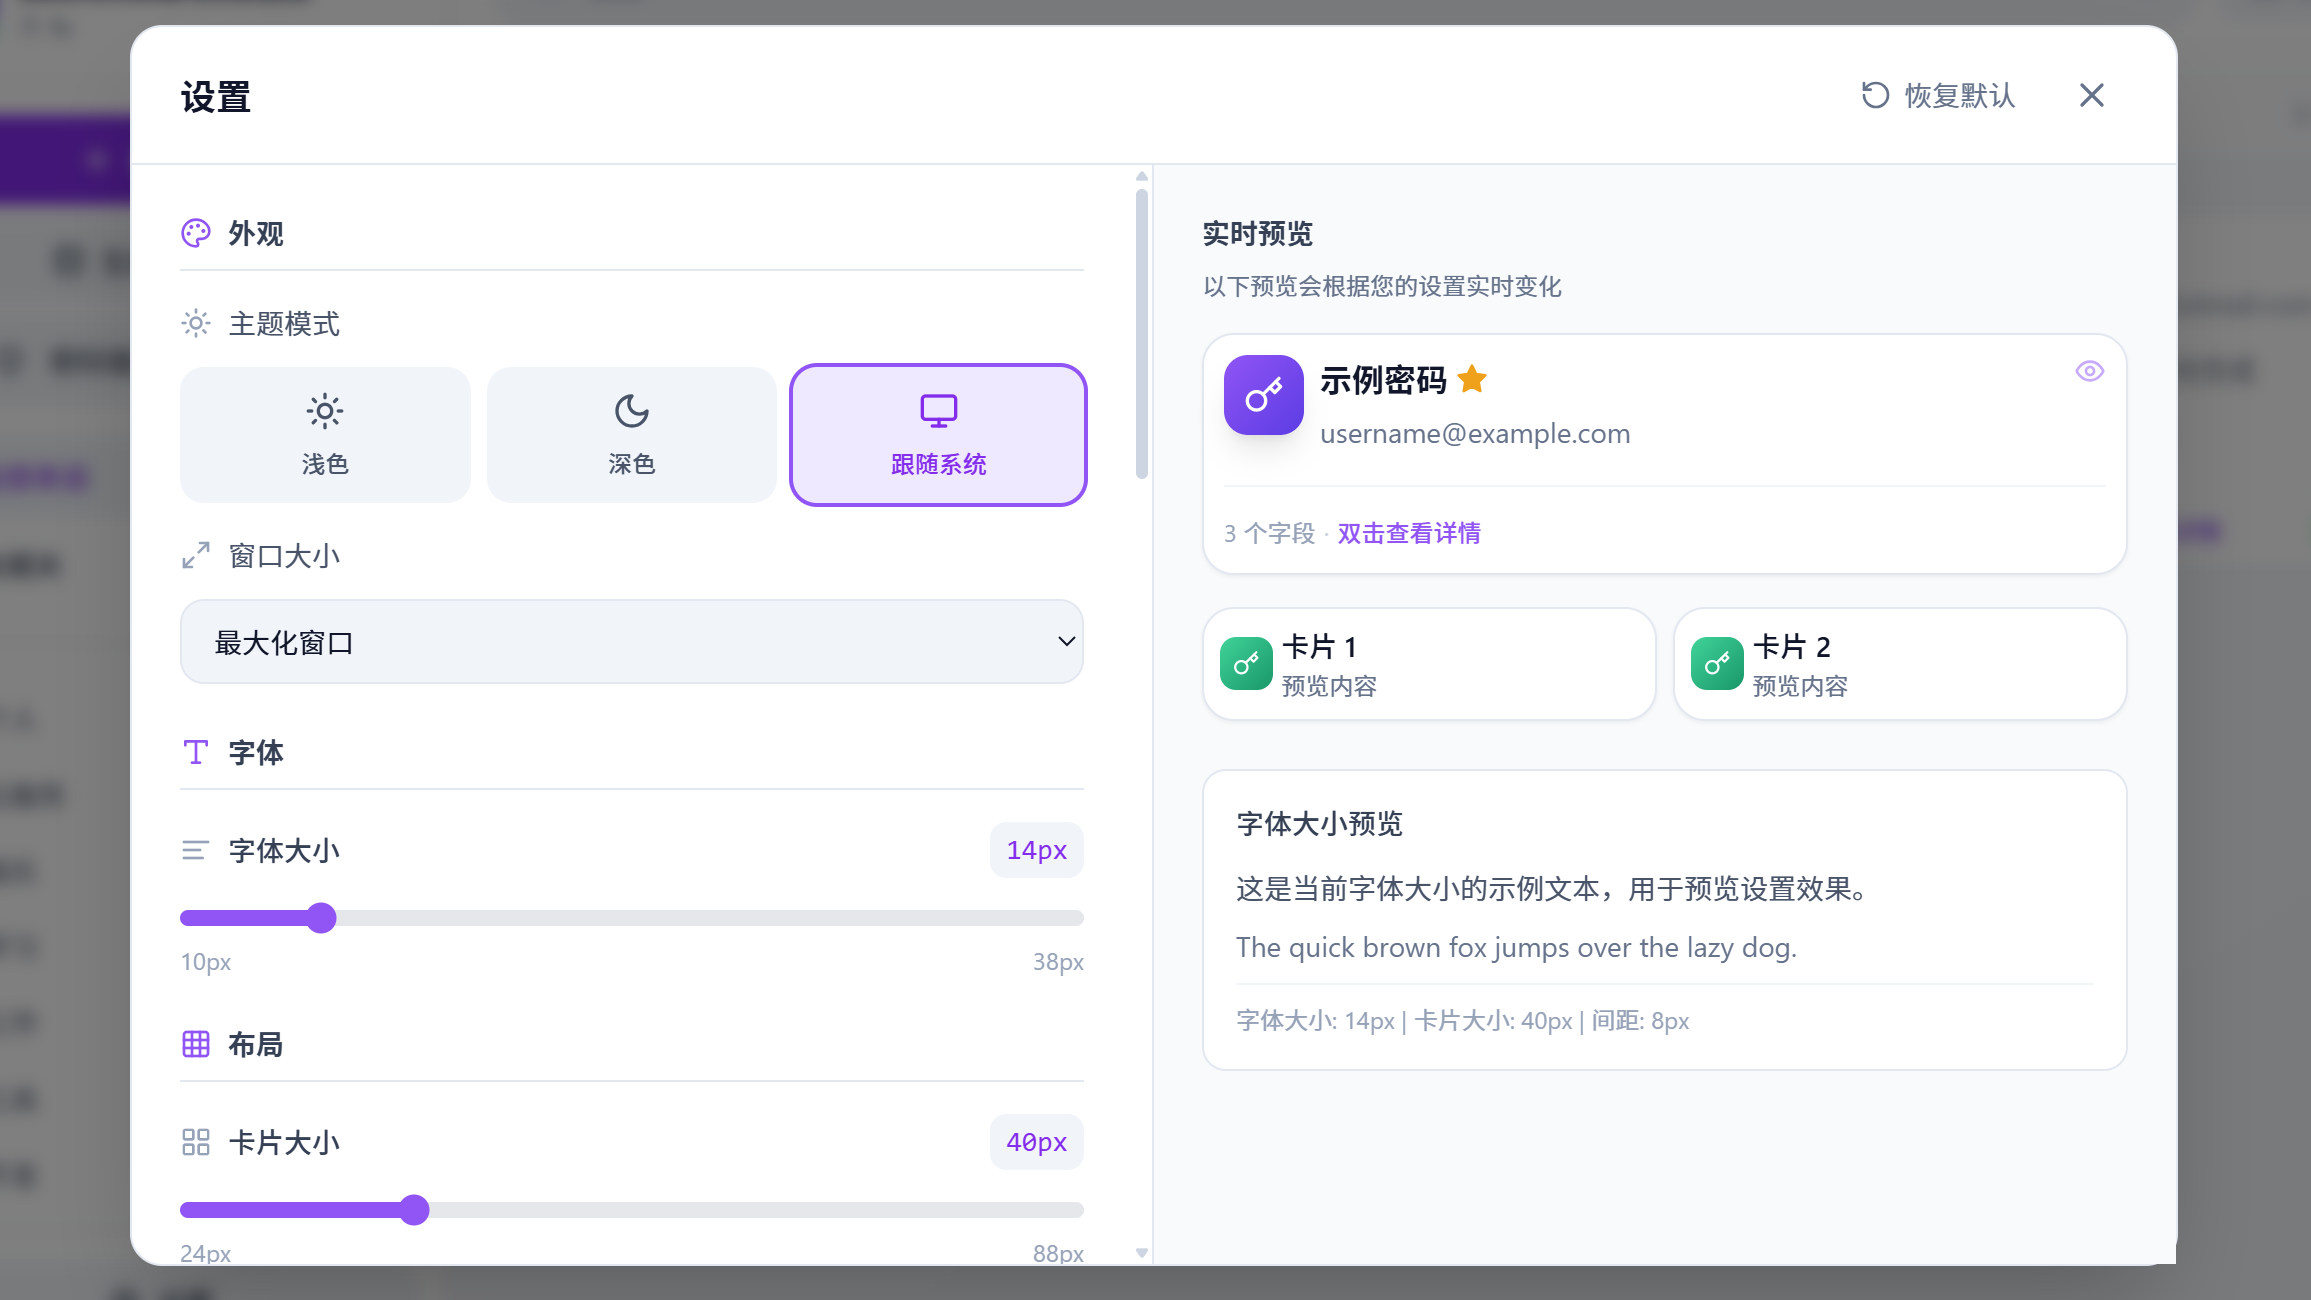
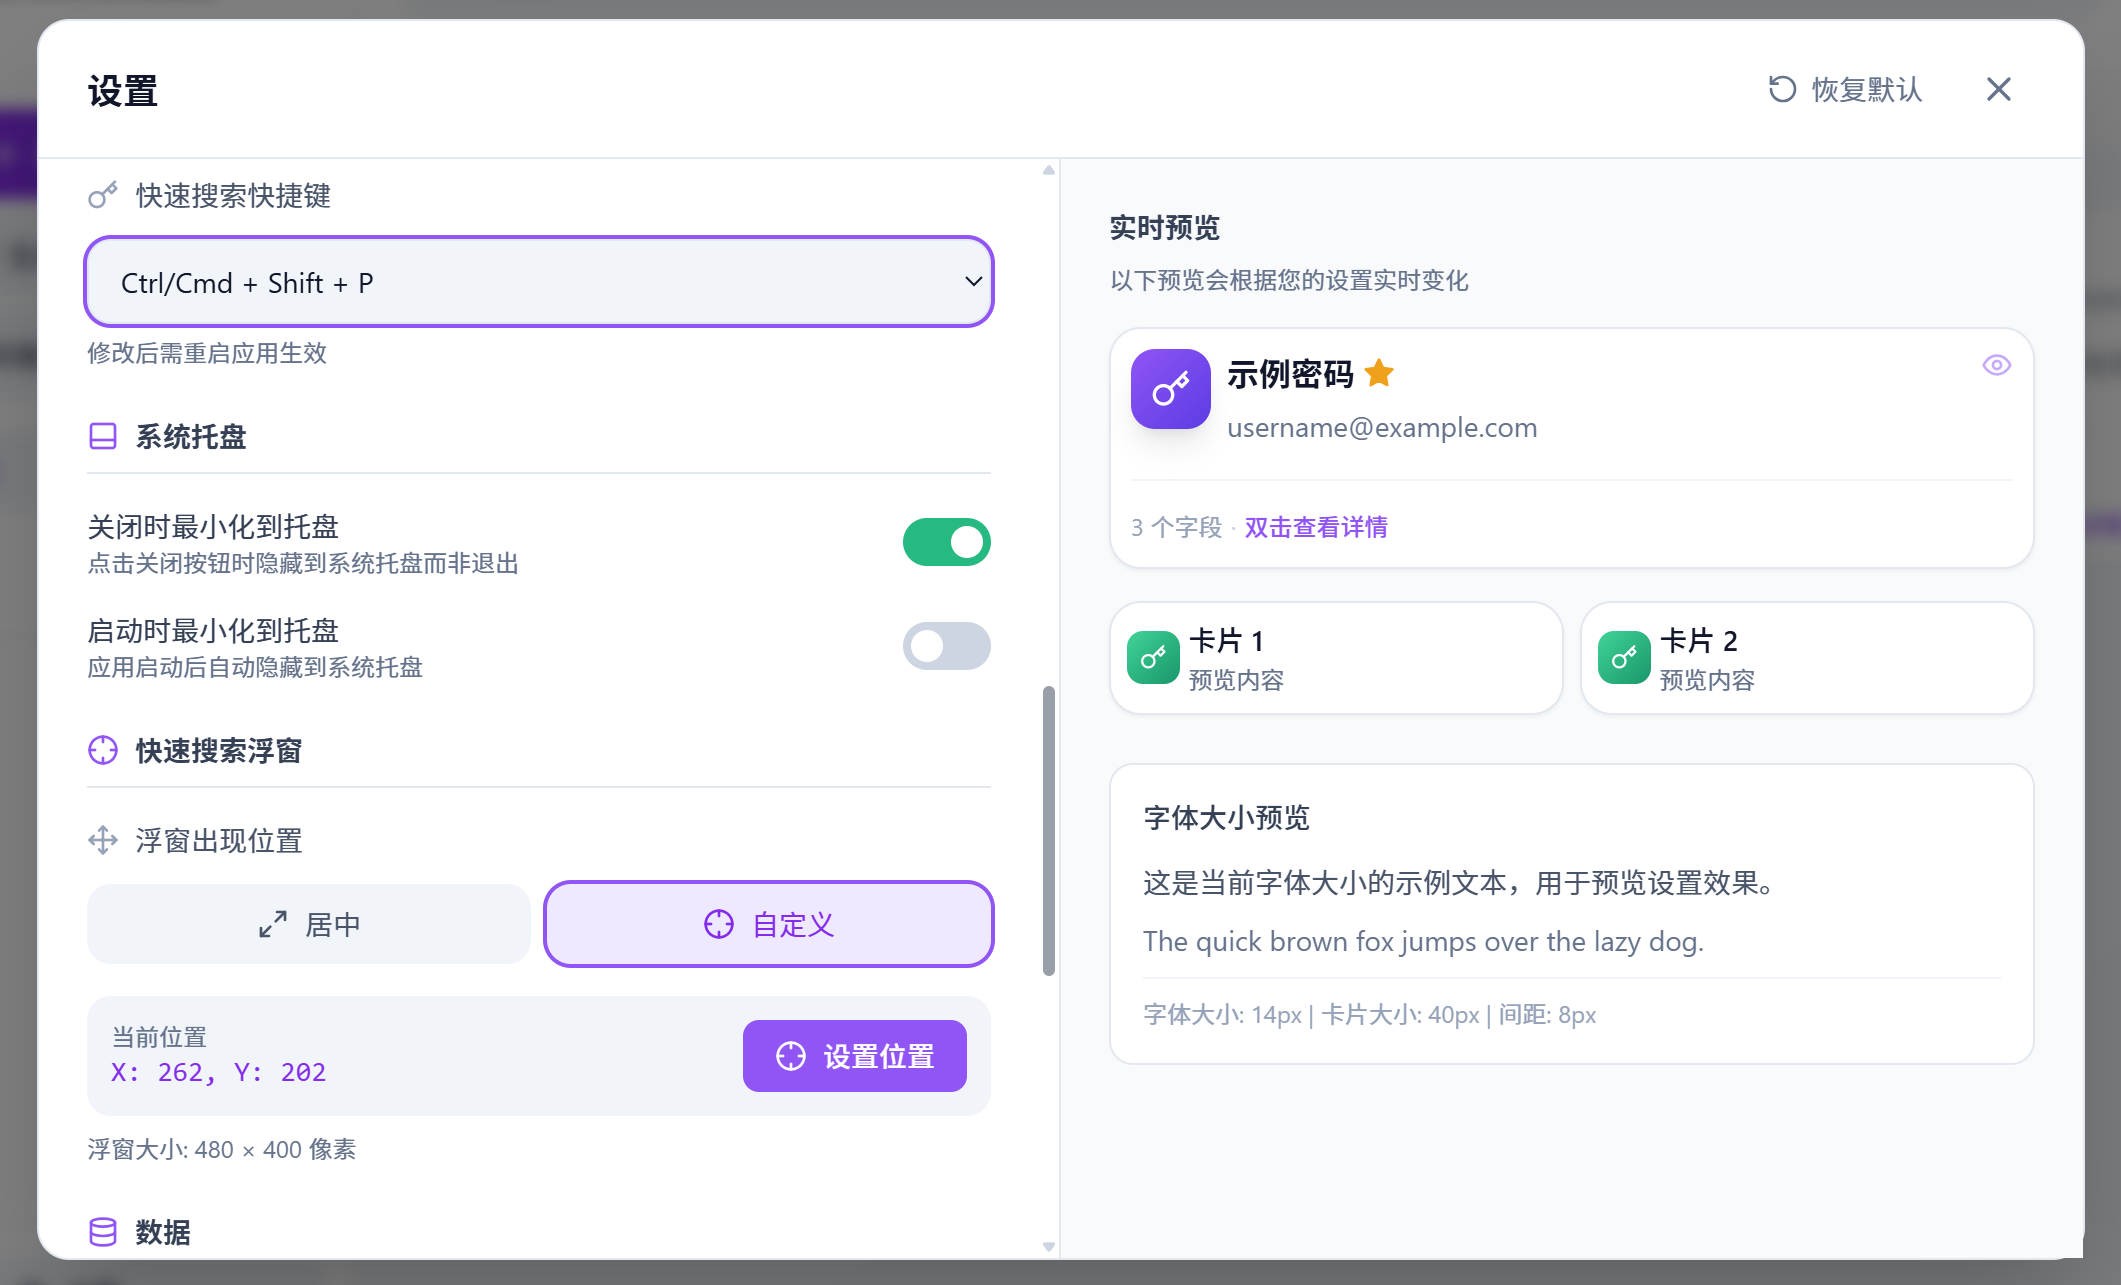
更新README

diff --git a/.workbuddy/memory/2026-05-11.md b/.workbuddy/memory/2026-05-11.md
@@ -124,3 +124,24 @@
   - 移除删除按钮的 `fields.length > 1` 条件
   - 成功后 emit `secrets-updated` 事件
 - `src/App.tsx`：添加 `secrets-updated` 事件监听
+
+---
+
+## 修复 GitHub CI 失败（TypeScript 编译错误）
+
+### 问题原因
+推送修改后 GitHub CI 失败，原因是 `QuickAddWindow.tsx` 中有两个错误的 import：
+1. `import { iconMap } from '../constants/icons'` — 引入了但未使用（TS6133）
+2. `import useStore from '../stores/useStore'` — useStore 是命名导出，不是默认导出（TS2613）
+
+### 解决方案
+删除这两行错误的 import 语句。
+
+### 修改的文件
+- `src/components/QuickAddWindow.tsx`：移除未使用的 `iconMap` 导入和错误的 `useStore` 默认导入
+
+### GitHub 推送
+- 添加 GitHub remote：`https://github.com/1623658271/SecretWarehouse.git`
+- 修改 `.github/workflows/release.yml`：push 到 main 时触发 build job，release job 仅在打 tag 时运行
+- 已推送到 GitHub (`github main`)
+

diff --git a/README.md b/README.md
@@ -101,11 +101,22 @@ SecretWarehouse
 
 </div>
 
+### 快速添加
+
+<div align="center">
+
+
+![快速搜索](docs/images/quick-add.png)
+
+*全局快捷键呼出悬浮窗，支持拖动移动位置，快速添加数据*
+
+</div>
+
 ### 设置界面
 
 <div align="center">
 
-![设置界面](docs/images/settings.png)
+![设置界面](../../../../MdBigImages/README/settings.png)![设置界面](../../../../MdBigImages/README/settings1.png)![设置界面](docs/images/settings2.png)
 
 *支持字体大小、卡片大小、间距、窗口尺寸等自定义设置*
 